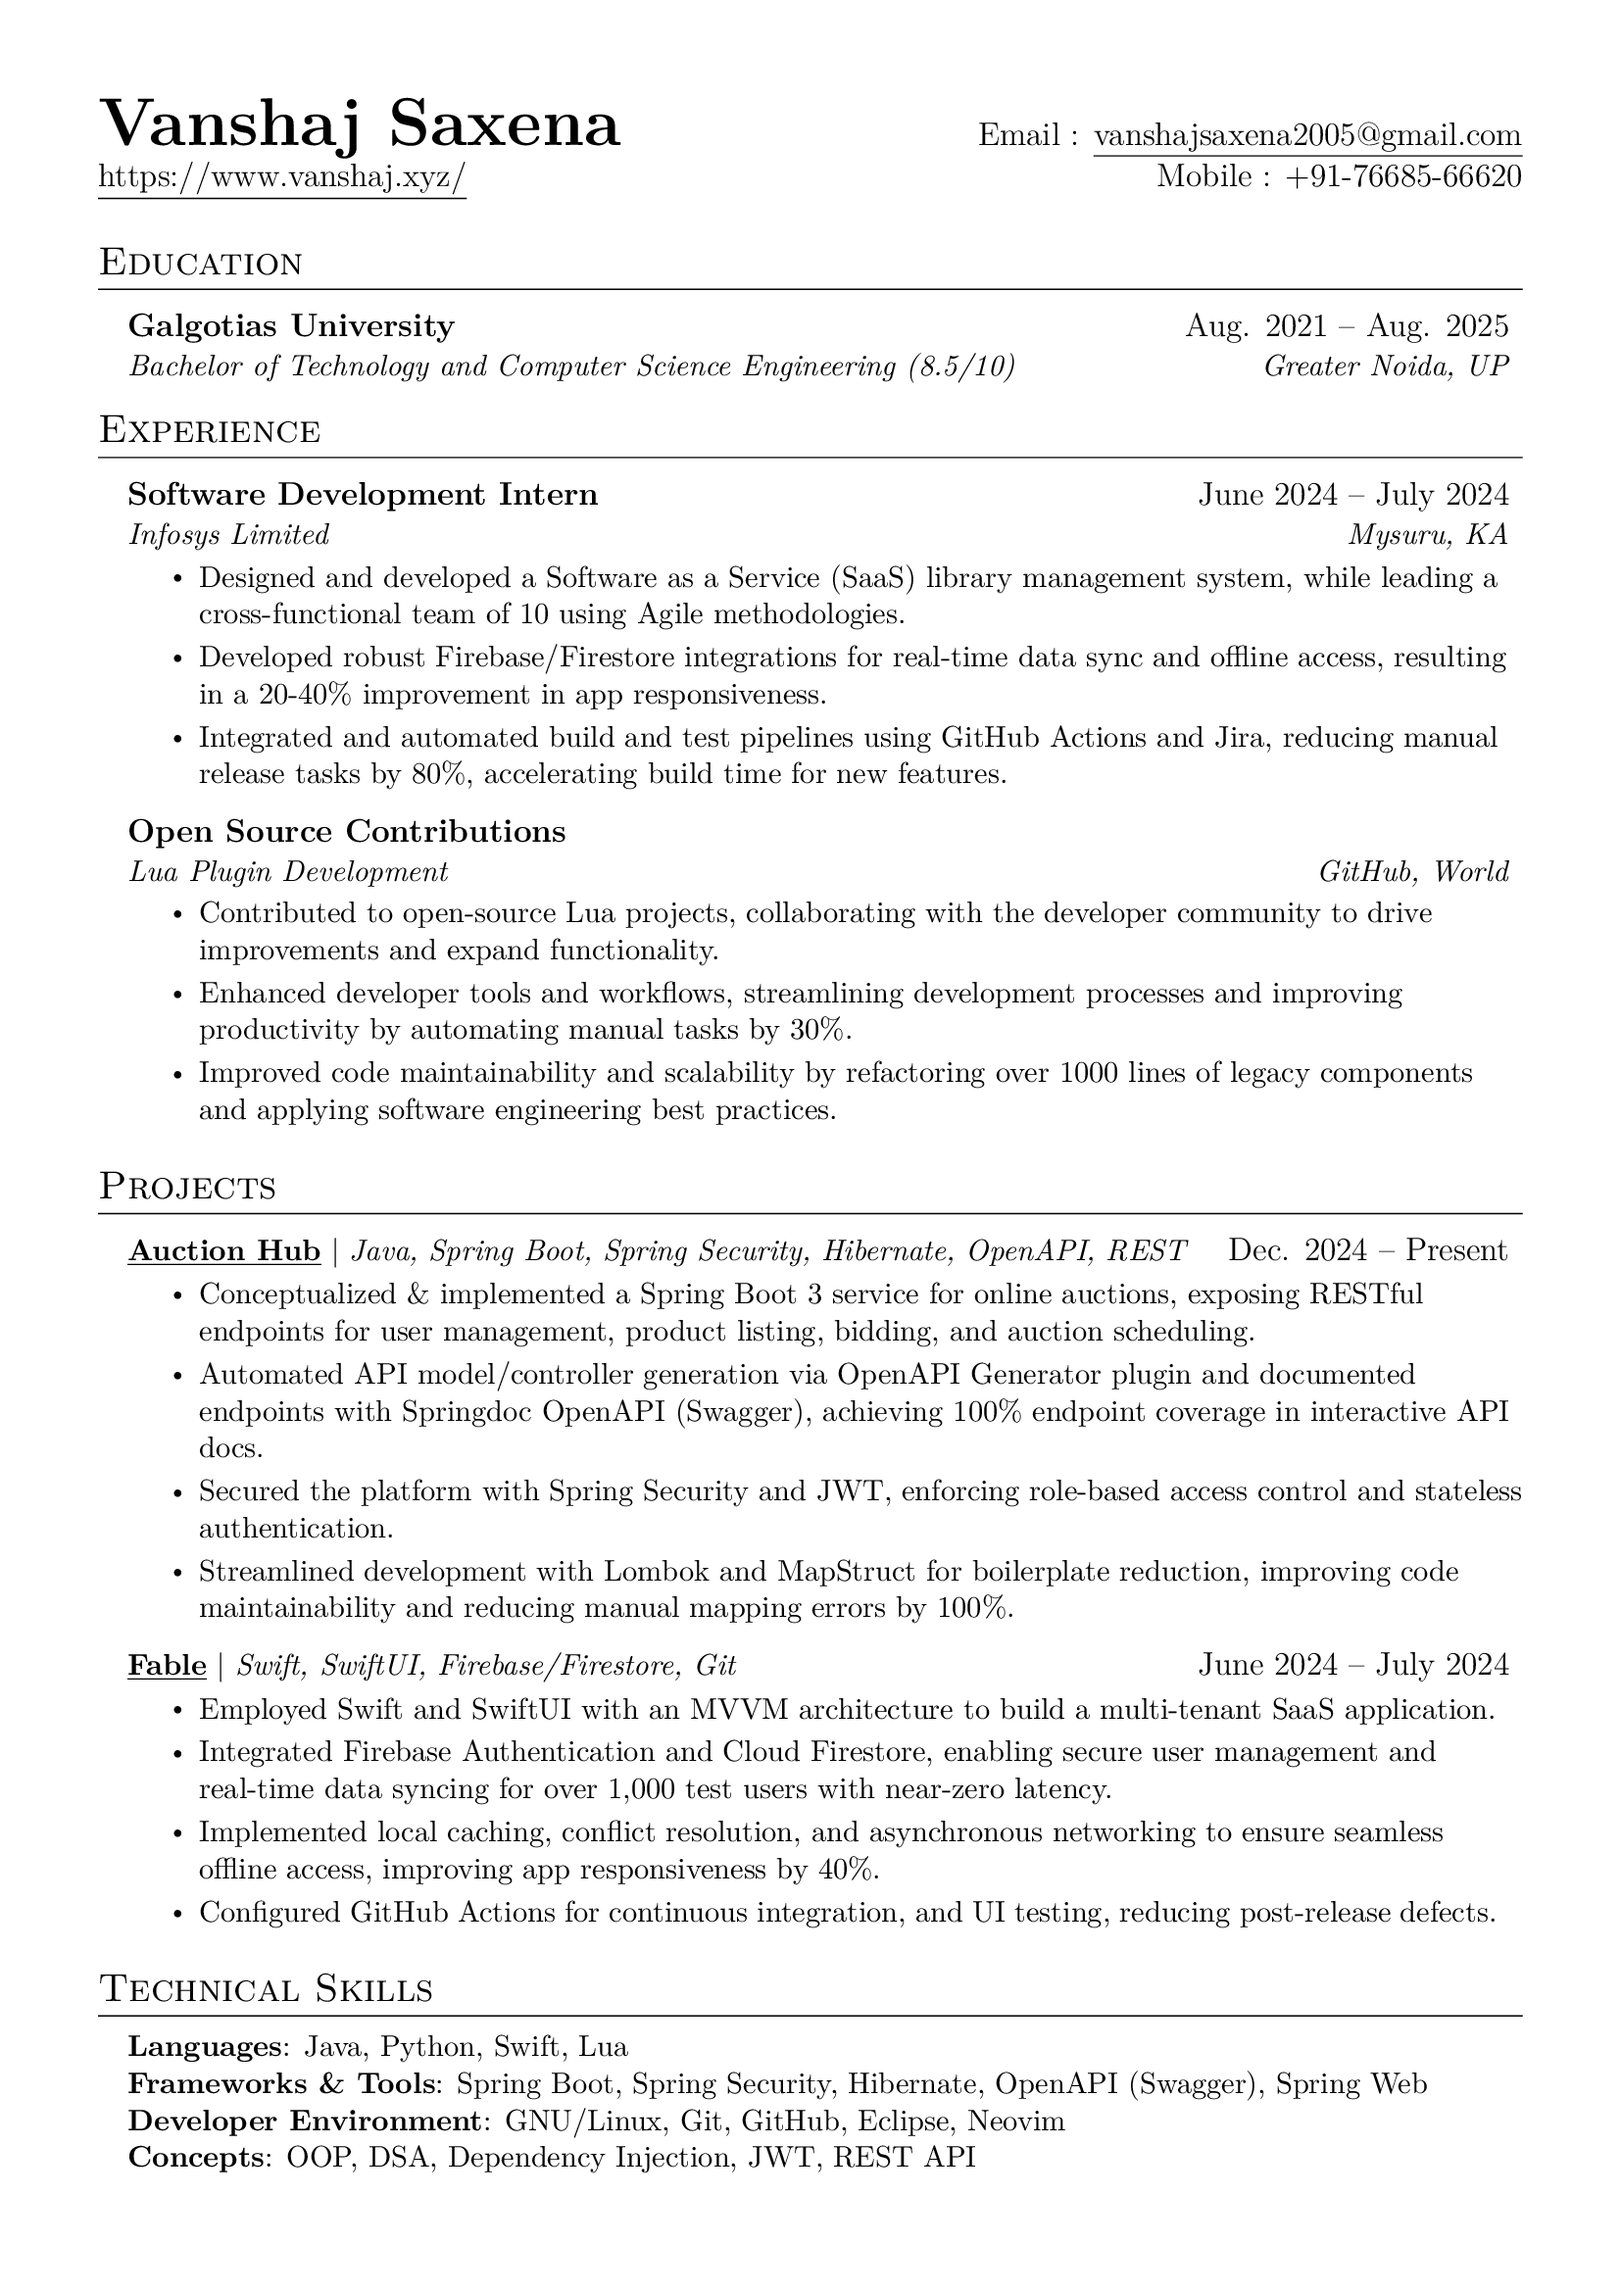
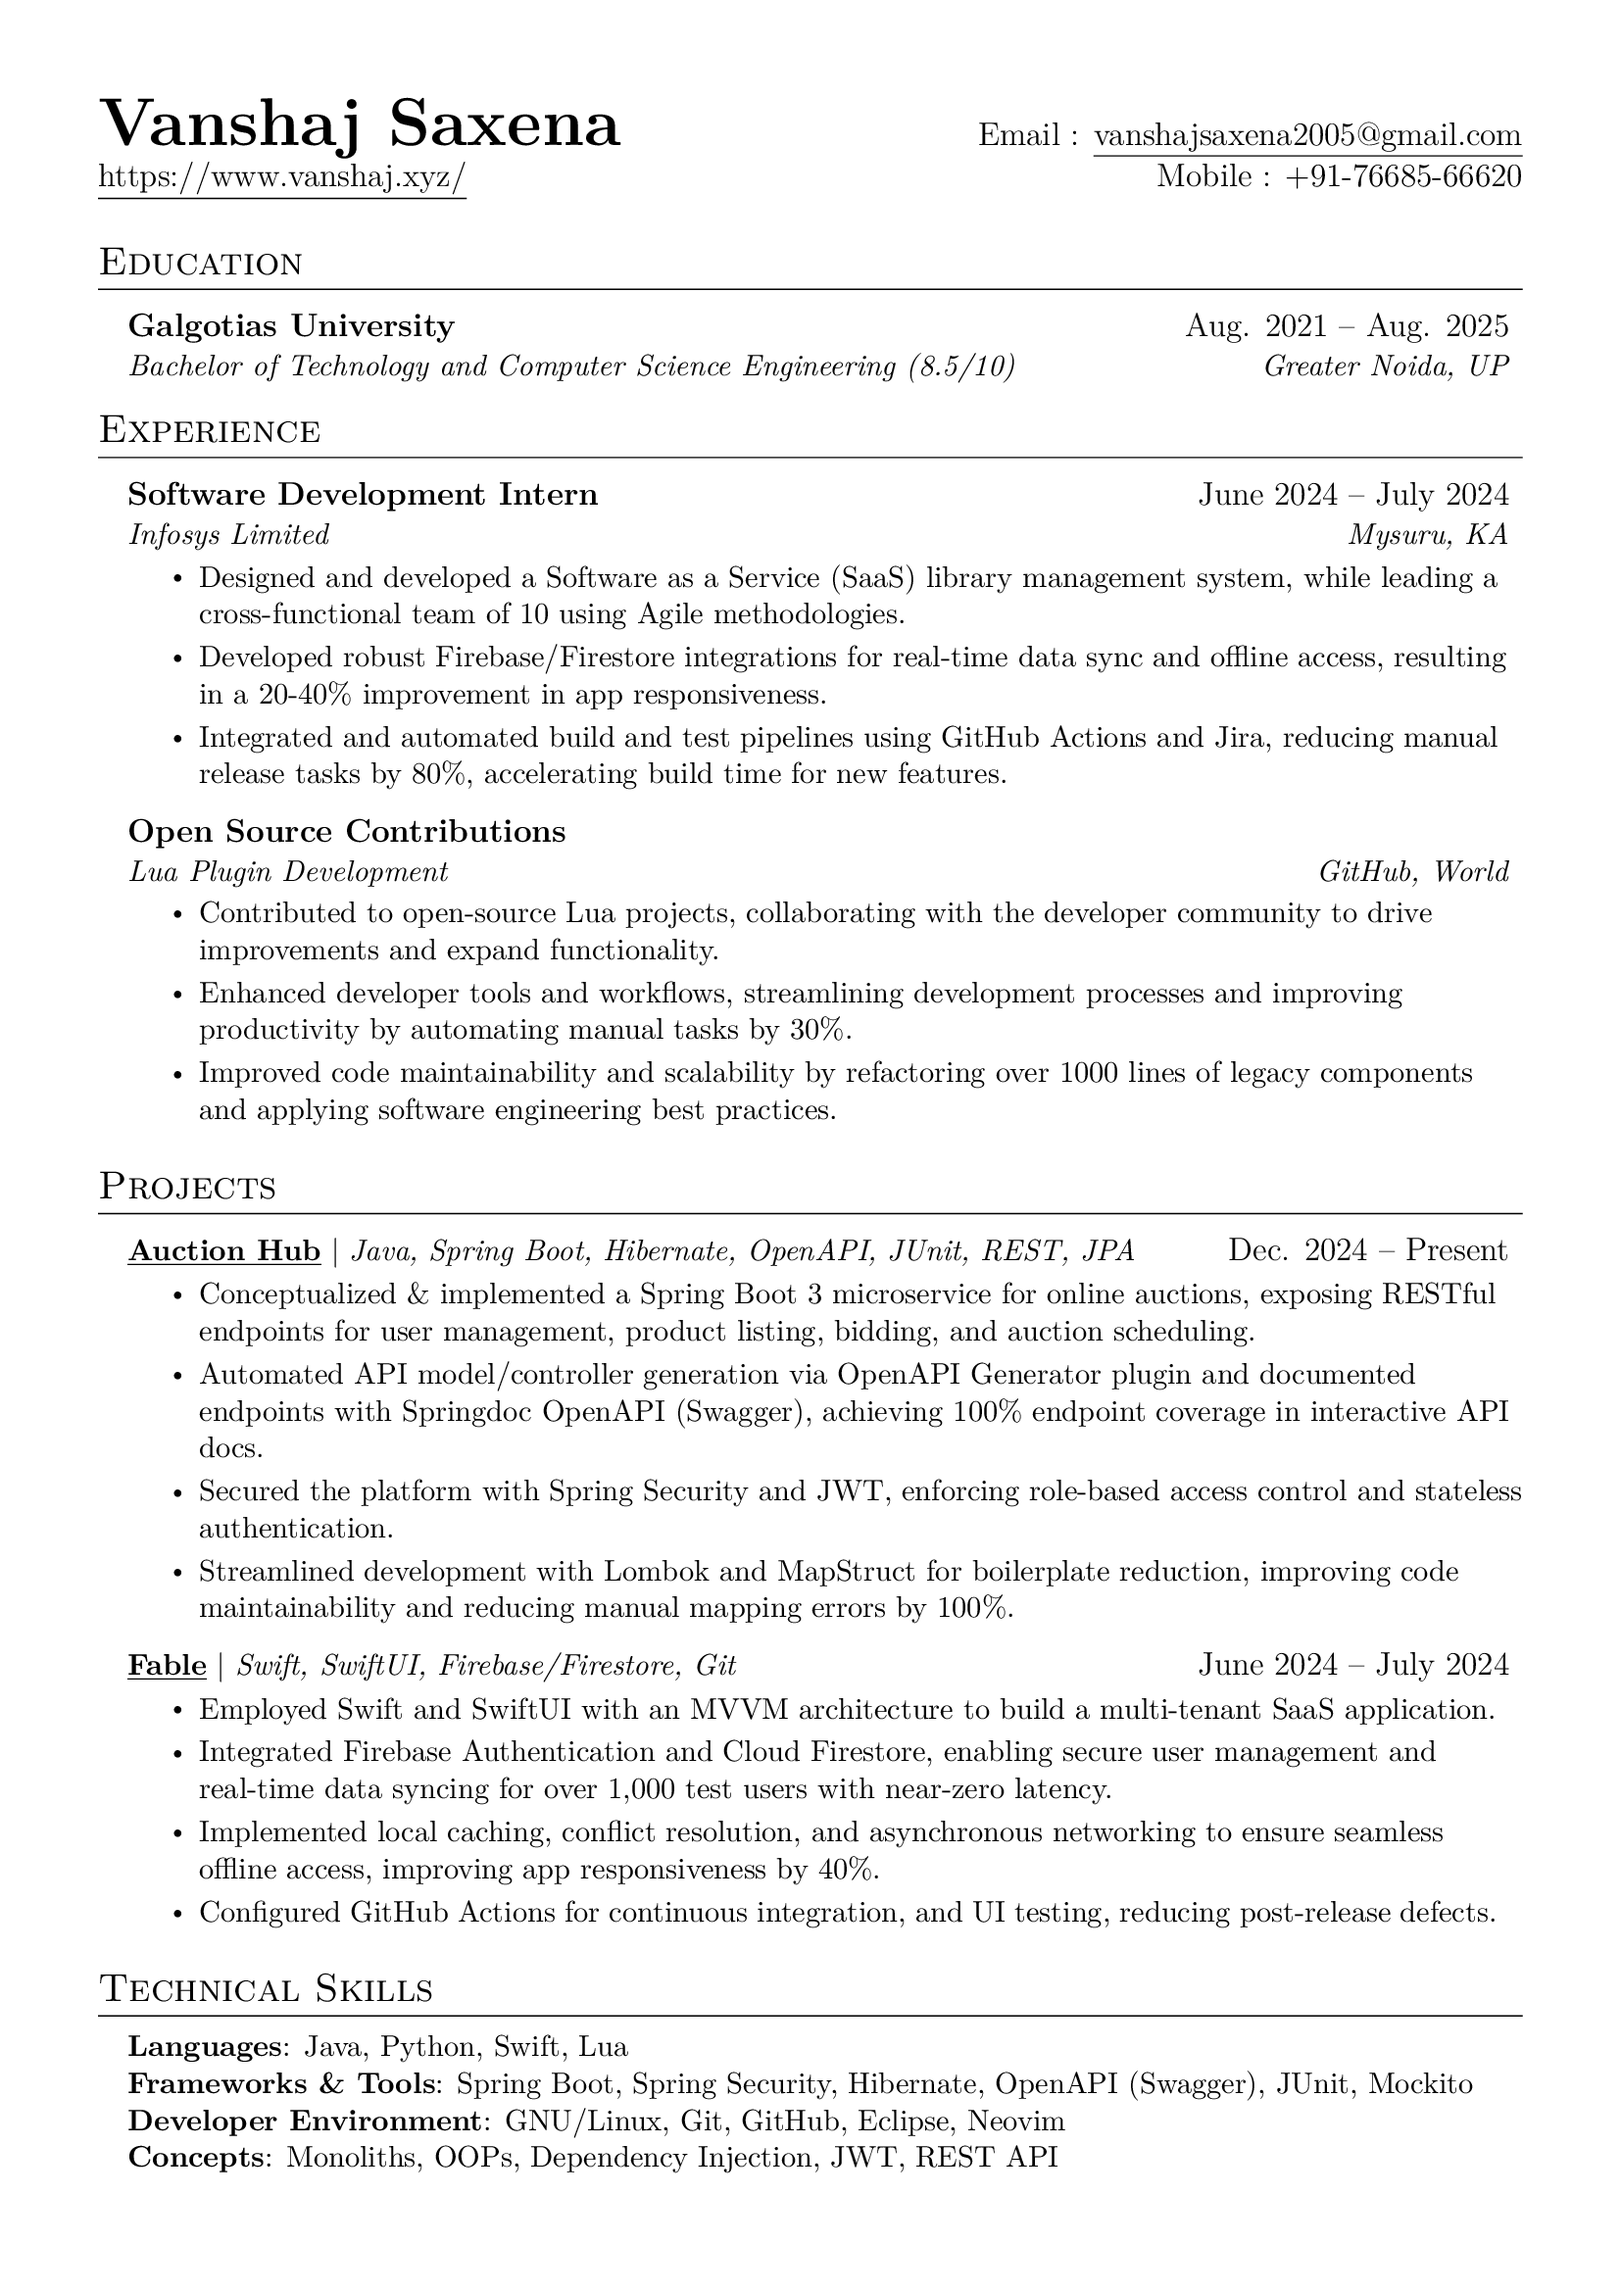
update

diff --git a/Resume - Vanshaj Saxena.tex b/Resume - Vanshaj Saxena.tex
@@ -167,9 +167,9 @@
 \section{Projects}
     \resumeSubHeadingListStart
       \resumeProjectHeading
-        {\textbf{\underline{\href{https://github.com/VanshajSaxena/auction-system}{Auction Hub}}} $|$ \emph{Java, Spring Boot, Spring Security, Hibernate, OpenAPI, REST }}{Dec. 2024 -- Present}
+        {\textbf{\underline{\href{https://github.com/VanshajSaxena/auction-system}{Auction Hub}}} $|$ \emph{Java, Spring Boot, Hibernate, OpenAPI, JUnit, REST, JPA }}{Dec. 2024 -- Present}
           \resumeItemListStart
-            \resumeItem{Conceptualized \& implemented a Spring Boot 3 service for online auctions, exposing RESTful endpoints for user management, product listing, bidding, and auction scheduling.}
+            \resumeItem{Conceptualized \& implemented a Spring Boot 3 microservice for online auctions, exposing RESTful endpoints for user management, product listing, bidding, and auction scheduling.}
             \resumeItem{Automated API model/controller generation via OpenAPI Generator plugin and documented endpoints with Springdoc OpenAPI (Swagger), achieving 100\% endpoint coverage in interactive API docs. }
             \resumeItem{Secured the platform with Spring Security and JWT, enforcing role-based access control and stateless authentication.}
             \resumeItem{Streamlined development with Lombok and MapStruct for boilerplate reduction, improving code maintainability and reducing manual mapping errors by 100\%.}
@@ -192,9 +192,9 @@
  \begin{itemize}[leftmargin=0.15in, label={}]
     \small{\item{
      \textbf{Languages}{: Java, Python, Swift, Lua} \\
-     \textbf{Frameworks \& Tools}{: Spring Boot, Spring Security, Hibernate, OpenAPI (Swagger), Spring Web} \\
+     \textbf{Frameworks \& Tools}{: Spring Boot, Spring Security, Hibernate, OpenAPI (Swagger), JUnit, Mockito} \\
      \textbf{Developer Environment}{: GNU/Linux, Git, GitHub, Eclipse, Neovim} \\
-     \textbf{Concepts}{: OOP, DSA, Dependency Injection, JWT, REST API}
+     \textbf{Concepts}{: Monoliths, OOPs, Dependency Injection, JWT, REST API}
     }}
  \end{itemize}
 
